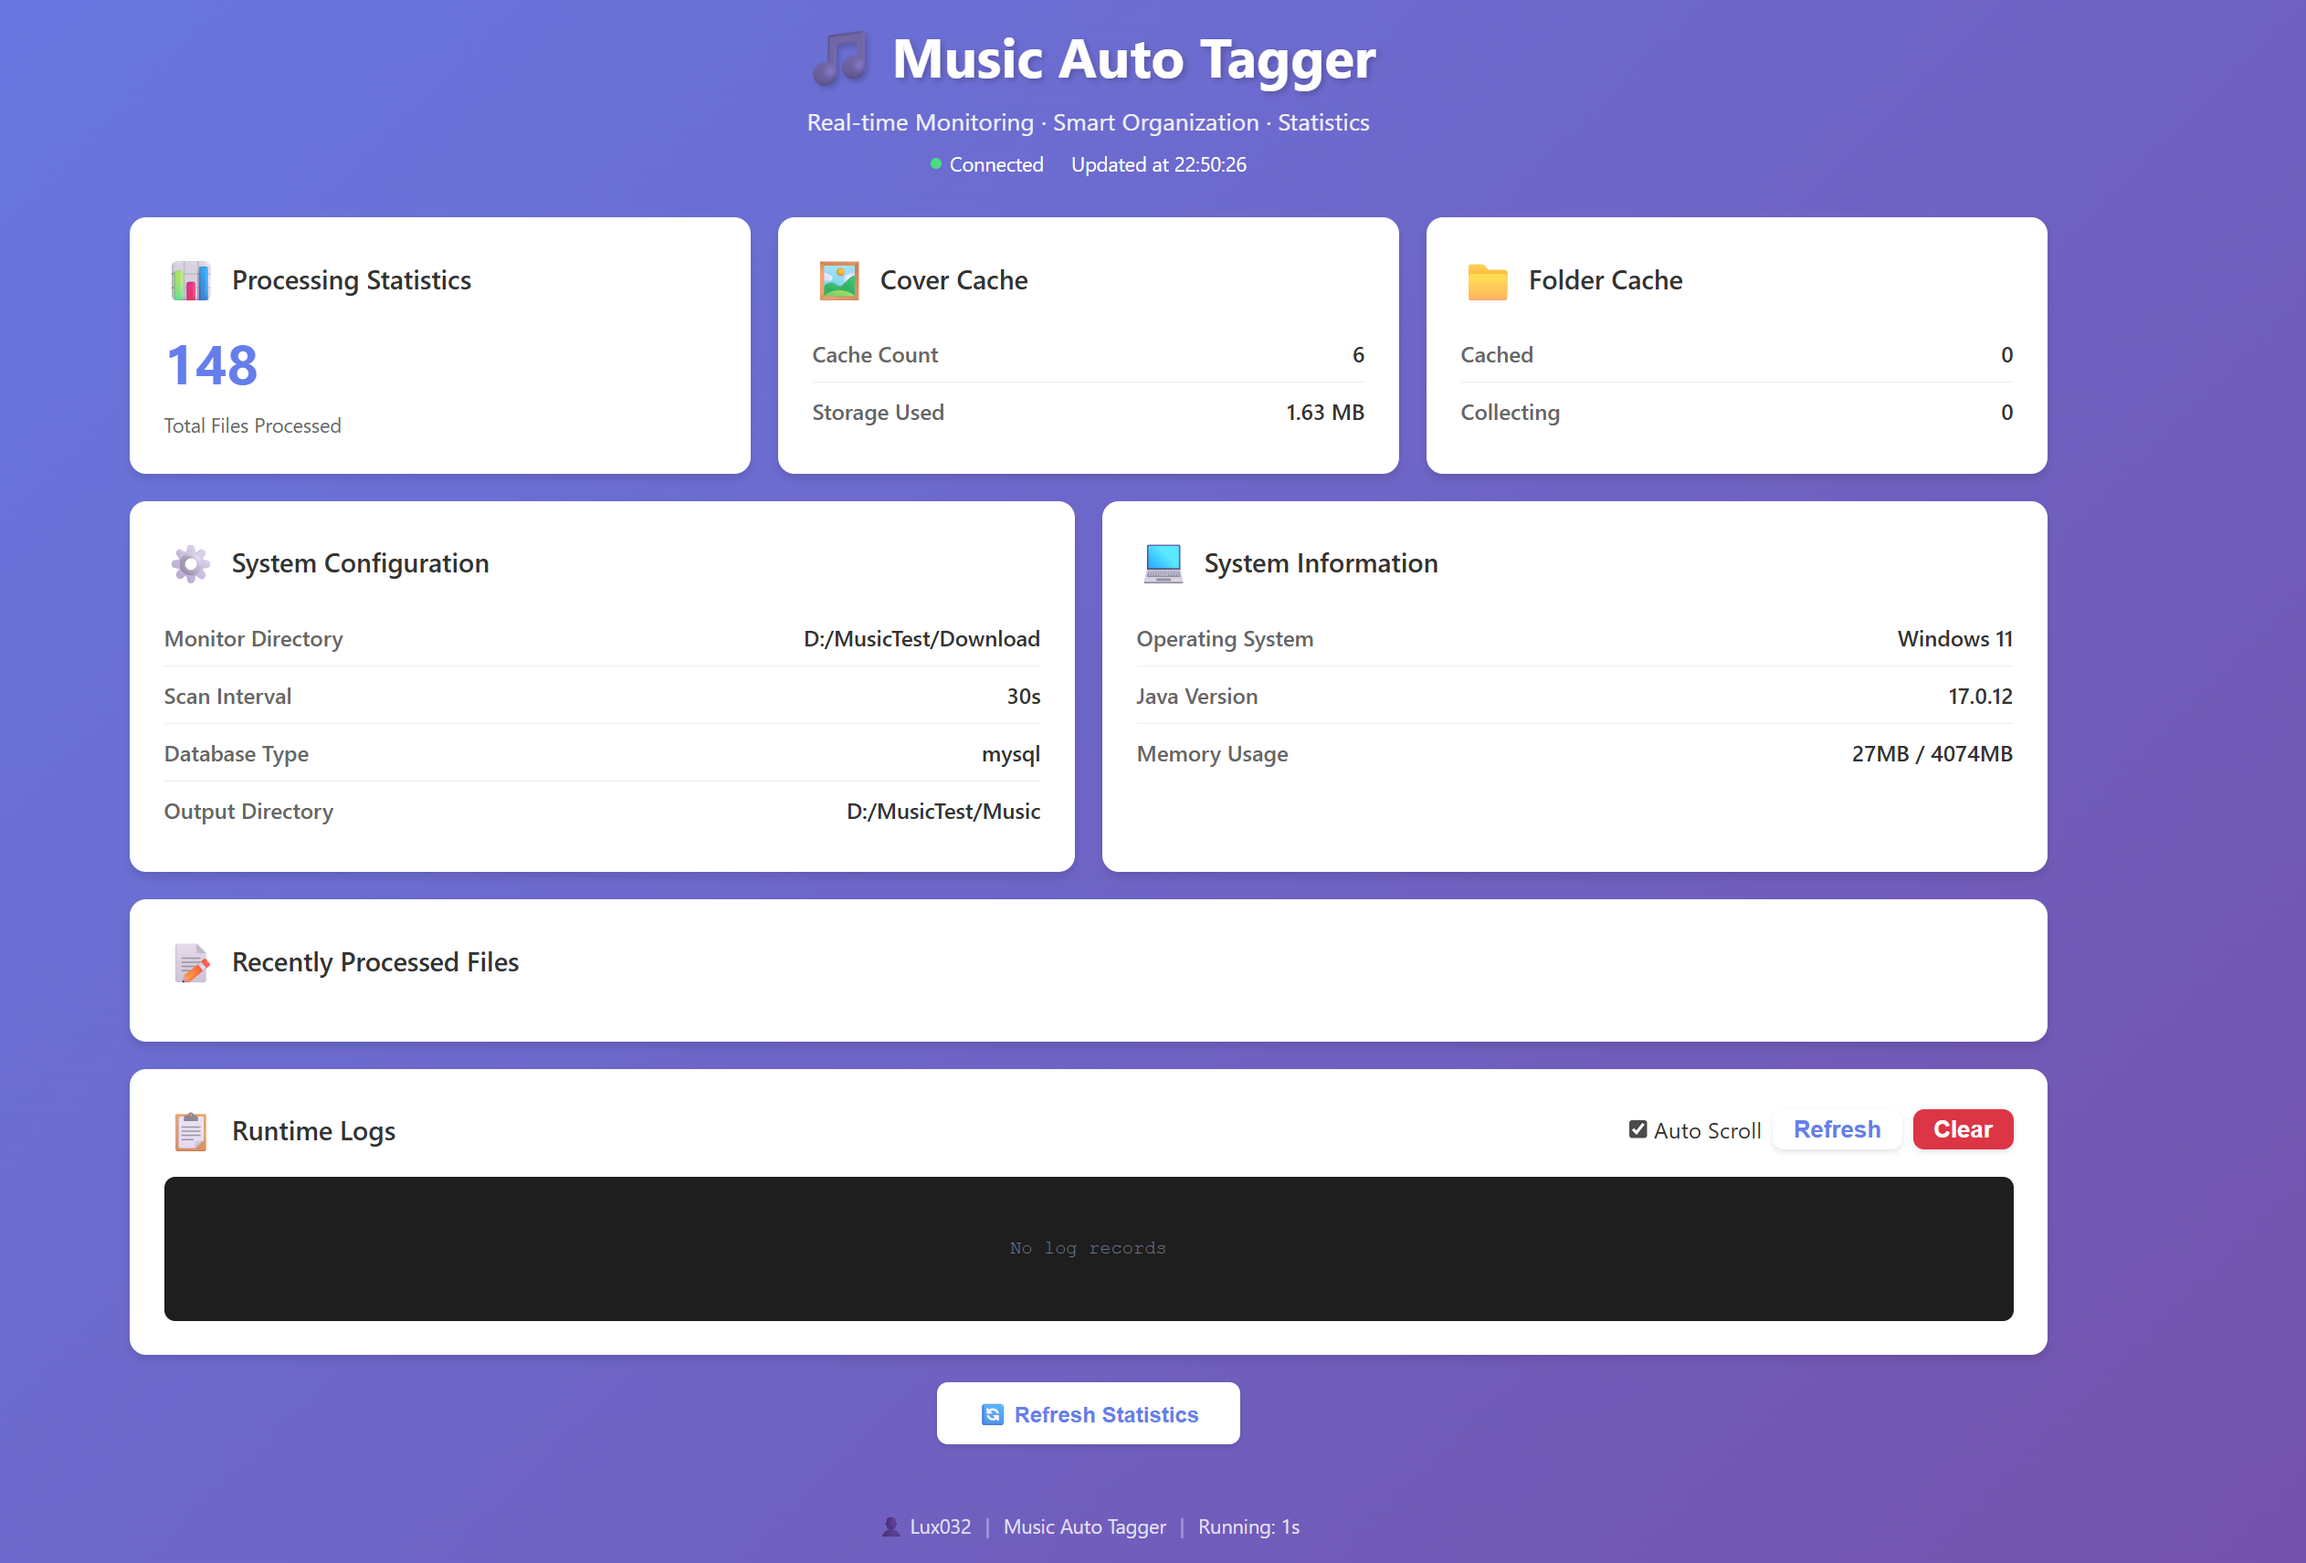
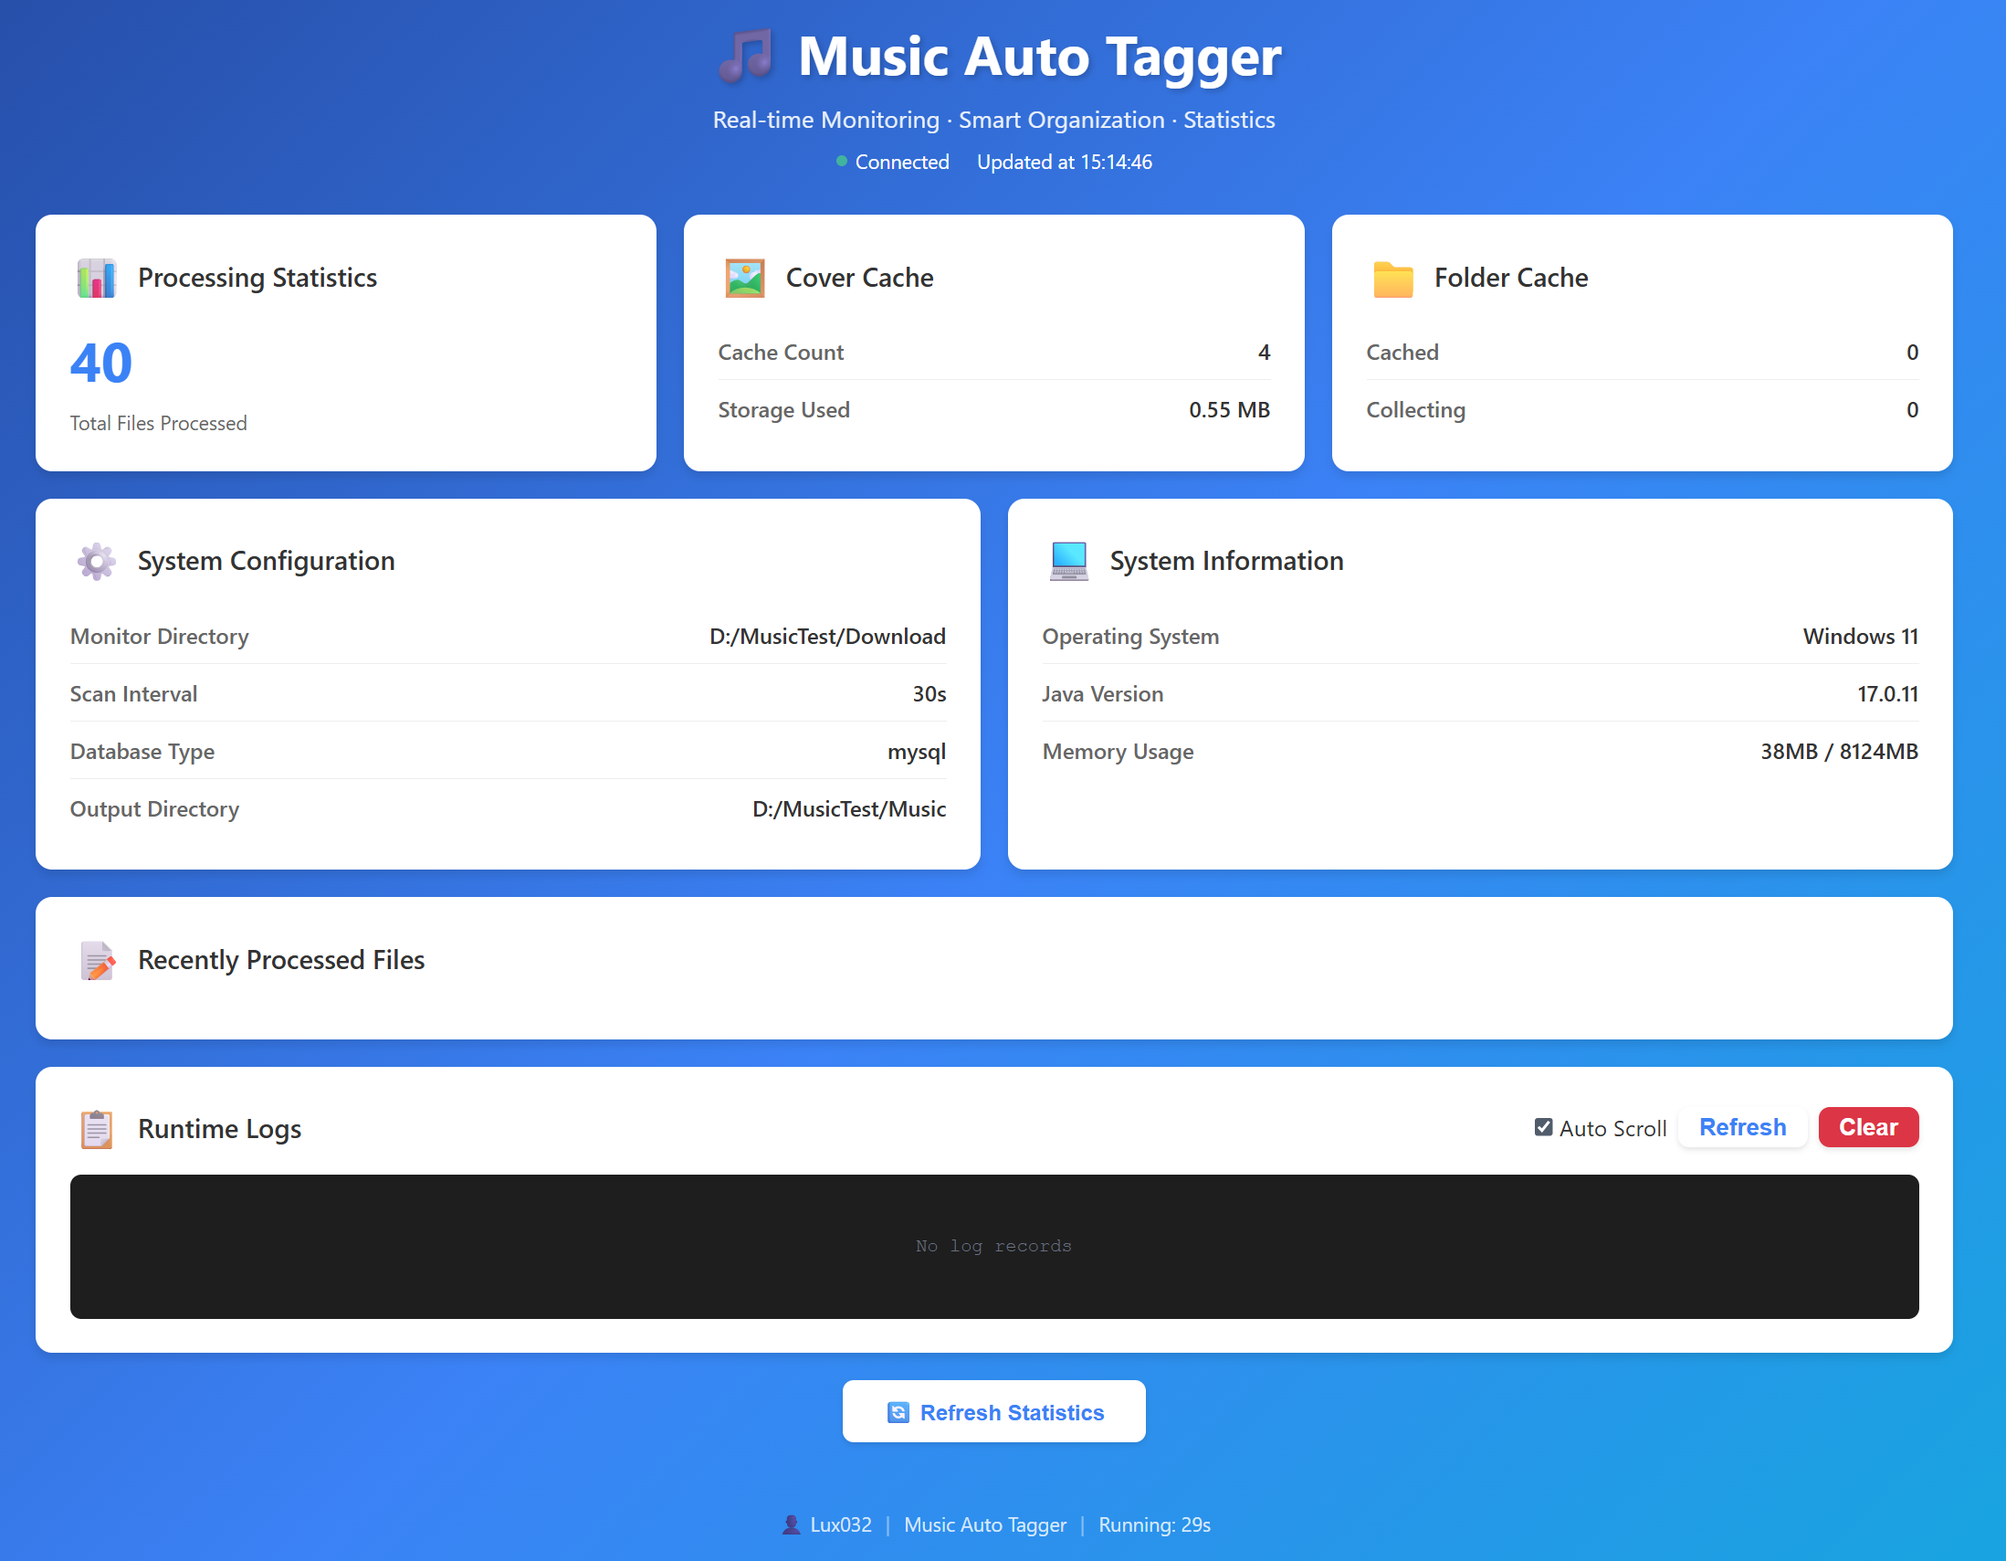
fix bug  change web color

diff --git a/src/main/resources/static/index.html b/src/main/resources/static/index.html
@@ -13,7 +13,7 @@
 
         body {
             font-family: -apple-system, BlinkMacSystemFont, 'Segoe UI', 'PingFang SC', 'Hiragino Sans GB', 'Microsoft YaHei', sans-serif;
-            background: linear-gradient(135deg, #667eea 0%, #764ba2 100%);
+            background: linear-gradient(135deg, #1e3a8a 0%, #3b82f6 50%, #06b6d4 100%);
             min-height: 100vh;
             padding: 20px;
         }
@@ -93,6 +93,11 @@
             flex-wrap: wrap;
         }
 
+        .footer-content a:hover {
+            color: rgba(255, 255, 255, 1) !important;
+            text-decoration: underline;
+        }
+
         .footer-divider {
             opacity: 0.5;
         }
@@ -134,7 +139,7 @@
         .stat-value {
             font-size: 2.5em;
             font-weight: bold;
-            color: #667eea;
+            color: #3b82f6;
             margin: 10px 0;
         }
 
@@ -241,7 +246,7 @@
             cursor: pointer;
             font-size: 1em;
             font-weight: 600;
-            color: #667eea;
+            color: #3b82f6;
             box-shadow: 0 2px 4px rgba(0,0,0,0.1);
             transition: all 0.3s ease;
             display: block;
@@ -401,9 +406,9 @@
 
         <footer class="footer">
             <div class="footer-content">
-                <span>👤 Lux032</span>
+                <a href="https://032.im" target="_blank" style="color: rgba(255, 255, 255, 0.8); text-decoration: none; transition: color 0.3s;">👤 Lux032</a>
                 <span class="footer-divider">|</span>
-                <span>Music Auto Tagger</span>
+                <a href="https://github.com/lux032/MusicAutoTagger" target="_blank" style="color: rgba(255, 255, 255, 0.8); text-decoration: none; transition: color 0.3s;">Music Auto Tagger</a>
                 <span class="footer-divider">|</span>
                 <span id="runningTime">运行时间: --</span>
             </div>

diff --git a/src/main/java/org/example/Main.java b/src/main/java/org/example/Main.java
@@ -1172,7 +1172,7 @@ public class Main {
             
             // 封面是必需条件：如果既没有内嵌封面也没有文件夹封面，不处理
             if (!hasEmbeddedCover && !hasFolderCover) {
-                log.info("文件没有封面，跳过部分识别处理(封面是必需条件)");
+                log.info(I18nUtil.getMessage("main.partial.recognition.no.cover"));
                 return;
             }
             
@@ -1180,10 +1180,11 @@ public class Main {
             boolean hasPartialTags = tagWriter.hasPartialTags(audioFile);
             
             log.info("========================================");
-            log.info("检测到部分识别文件(有封面)，开始处理");
-            log.info("- 有内嵌封面: {}", hasEmbeddedCover);
-            log.info("- 文件夹有封面: {}", hasFolderCover);
-            log.info("- 有部分标签: {}", hasPartialTags);
+            log.info(I18nUtil.getMessage("main.partial.recognition.detected"));
+            LogCollector.addLog("INFO", "✓ " + I18nUtil.getMessage("main.partial.recognition.detected") + ": " + audioFile.getName());
+            log.info(I18nUtil.getMessage("main.partial.recognition.has.embedded.cover") + ": {}", hasEmbeddedCover);
+            log.info(I18nUtil.getMessage("main.partial.recognition.has.folder.cover") + ": {}", hasFolderCover);
+            log.info(I18nUtil.getMessage("main.partial.recognition.has.tags") + ": {}", hasPartialTags);
             
             // 构建目标文件路径
             String fileName = audioFile.getName();
@@ -1195,25 +1196,29 @@ public class Main {
             }
             
             // 复制文件到部分识别目录
-            log.info("复制文件到部分识别目录: {}", targetFile.getAbsolutePath());
+            log.info(I18nUtil.getMessage("main.partial.recognition.copying") + ": {}", targetFile.getAbsolutePath());
             Files.copy(audioFile.toPath(), targetFile.toPath(), java.nio.file.StandardCopyOption.REPLACE_EXISTING);
             
             // 如果文件夹有封面但文件没有内嵌封面，则内嵌封面
             if (hasFolderCover && !hasEmbeddedCover) {
-                log.info("文件夹有封面但文件未内嵌，开始内嵌封面...");
+                log.info(I18nUtil.getMessage("main.partial.recognition.embedding.cover"));
+                LogCollector.addLog("INFO", "  → " + I18nUtil.getMessage("main.partial.recognition.embedding.cover"));
                 boolean embedSuccess = tagWriter.embedFolderCover(targetFile, folderCover);
                 if (embedSuccess) {
-                    log.info("✓ 封面内嵌成功");
+                    log.info(I18nUtil.getMessage("main.partial.recognition.embed.success"));
+                    LogCollector.addLog("SUCCESS", "  " + I18nUtil.getMessage("main.partial.recognition.embed.success"));
                 } else {
-                    log.warn("✗ 封面内嵌失败");
+                    log.warn(I18nUtil.getMessage("main.partial.recognition.embed.failed"));
+                    LogCollector.addLog("WARN", "  " + I18nUtil.getMessage("main.partial.recognition.embed.failed"));
                 }
             }
             
-            log.info("✓ 部分识别文件处理完成: {}", targetFile.getAbsolutePath());
+            log.info(I18nUtil.getMessage("main.partial.recognition.complete") + ": {}", targetFile.getAbsolutePath());
+            LogCollector.addLog("SUCCESS", I18nUtil.getMessage("main.partial.recognition.complete") + ": " + config.getPartialDirectory());
             log.info("========================================");
             
         } catch (Exception e) {
-            log.error("处理部分识别文件失败: {}", audioFile.getName(), e);
+            log.error(I18nUtil.getMessage("main.partial.recognition.failed") + ": {}", audioFile.getName(), e);
         }
     }
     
